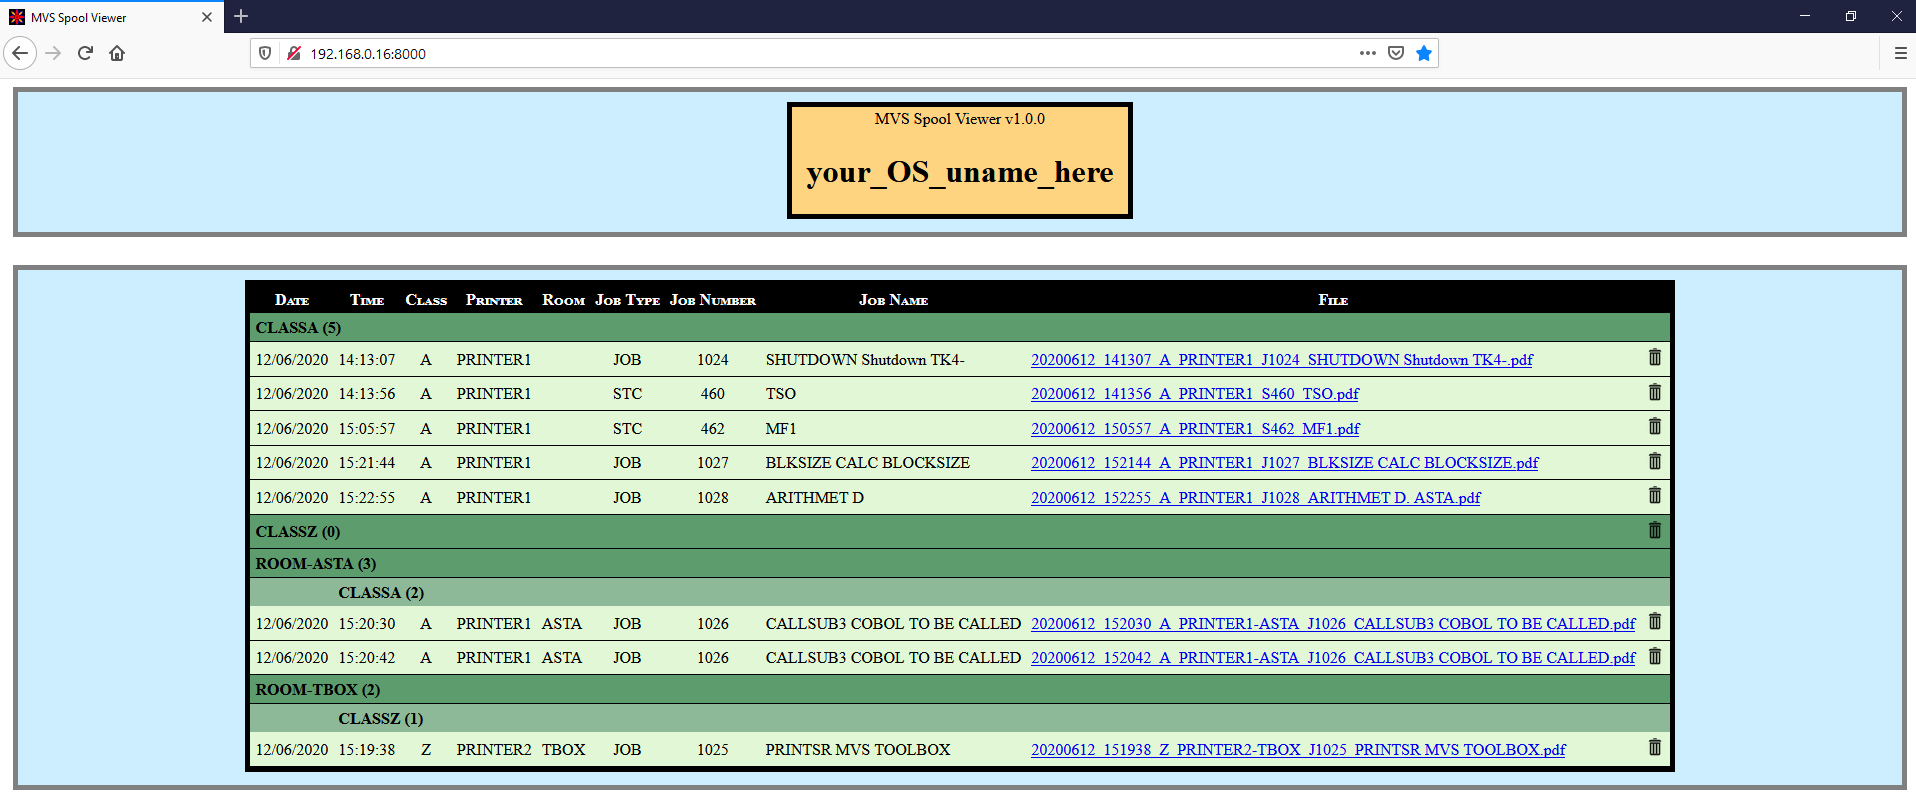
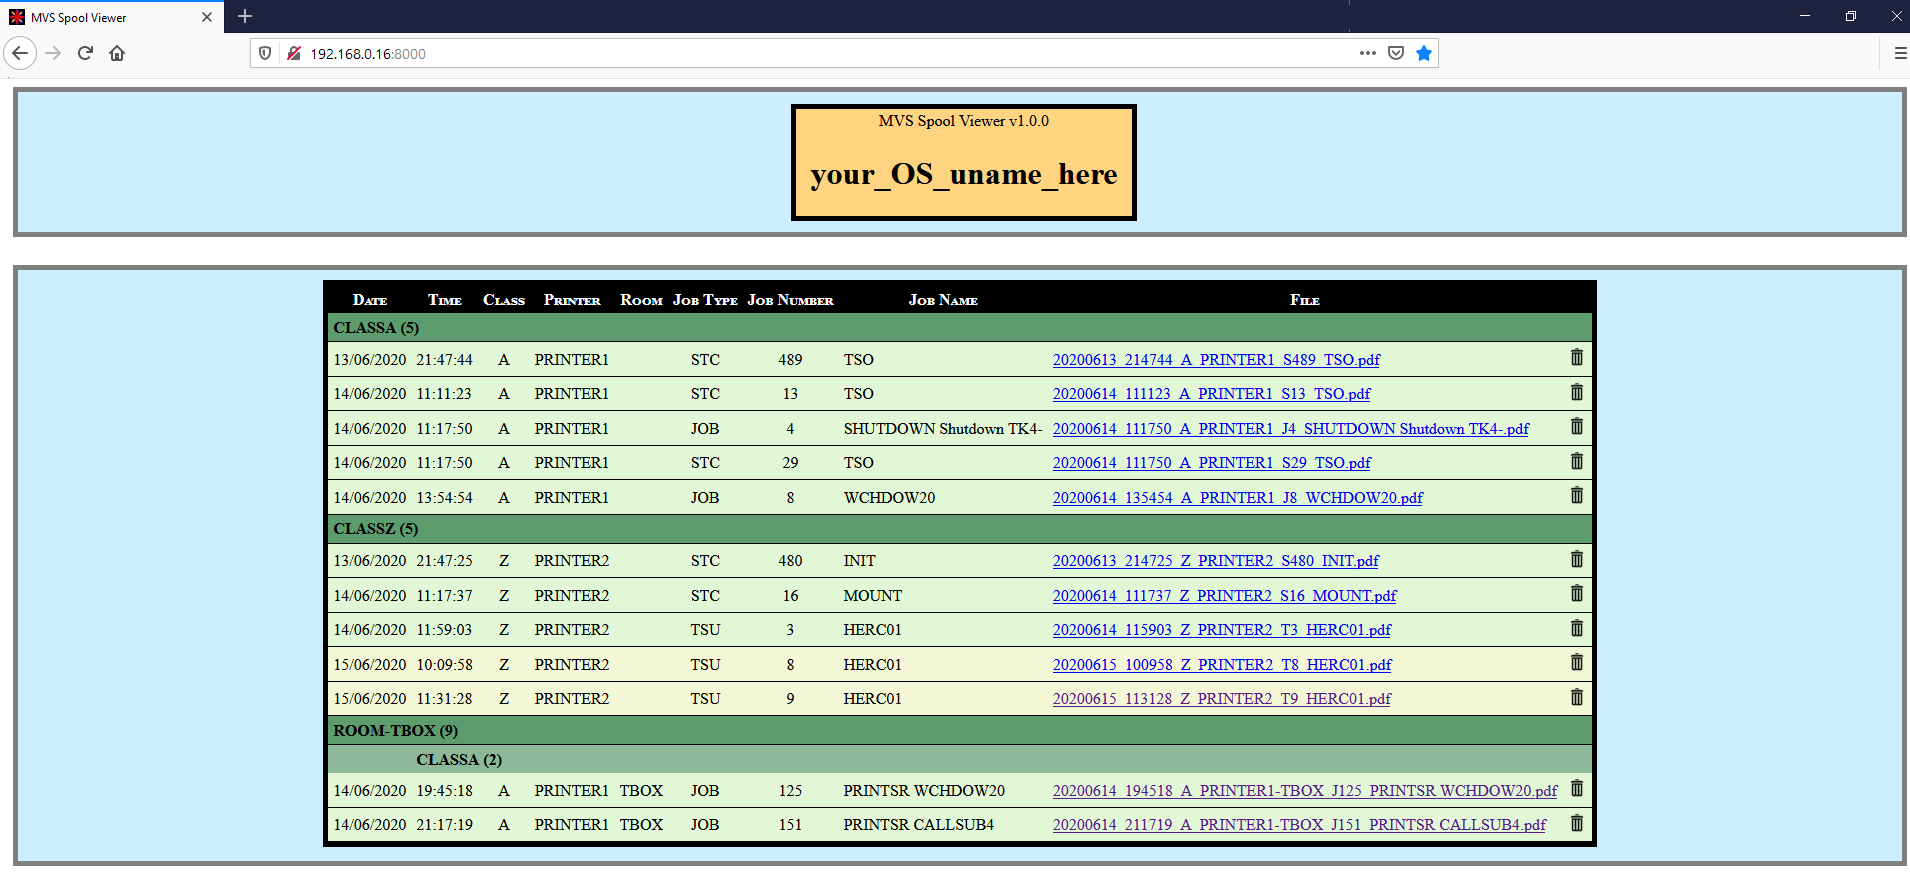
WebUI - Highlight row if jobdate is today

diff --git a/WebUI/style.css b/WebUI/style.css
@@ -1,10 +1,32 @@
+/*
+MIT License
+
+Copyright (c) 2020 David Asta
+
+Permission is hereby granted, free of charge, to any person obtaining a copy
+of this software and associated documentation files (the "Software"), to deal
+in the Software without restriction, including without limitation the rights
+to use, copy, modify, merge, publish, distribute, sublicense, and/or sell
+copies of the Software, and to permit persons to whom the Software is
+furnished to do so, subject to the following conditions:
+
+The above copyright notice and this permission notice shall be included in all
+copies or substantial portions of the Software.
+
+THE SOFTWARE IS PROVIDED "AS IS", WITHOUT WARRANTY OF ANY KIND, EXPRESS OR
+IMPLIED, INCLUDING BUT NOT LIMITED TO THE WARRANTIES OF MERCHANTABILITY,
+FITNESS FOR A PARTICULAR PURPOSE AND NONINFRINGEMENT. IN NO EVENT SHALL THE
+AUTHORS OR COPYRIGHT HOLDERS BE LIABLE FOR ANY CLAIM, DAMAGES OR OTHER
+LIABILITY, WHETHER IN AN ACTION OF CONTRACT, TORT OR OTHERWISE, ARISING FROM,
+OUT OF OR IN CONNECTION WITH THE SOFTWARE OR THE USE OR OTHER DEALINGS IN THE
+SOFTWARE.
+*/
+
 table {
-	border: 1px solid black;
+	border: 5px solid black;
 	border-collapse: collapse;
 	display: inline-block;
-}
-.dir{
-	border: 0px;
+	text-align: left;
 }
 th {
 	background-color: black;
@@ -14,13 +36,22 @@ th {
 	font-variant: small-caps;
 }
 td {
-	border: 1px solid black;
+	border-bottom: 1px solid black;
 	border-collapse: collapse;
 	padding: 5px;
 	background-color: #e1f7d5;
 }
+.today {
+	background-color: #f3f7d5;
+}
 .dir {
+	border-bottom: 1px solid black;
 	background-color: #5d9c6d;
+	font-weight: bold;
+}
+.subdir {
+	border: 0px;
+	background-color: #8db998;
 	font-weight: bold;
 }
 .app{
@@ -34,7 +65,6 @@ td {
 }
 div {
 	background-color: #cceeff;
-	width: 90%;
 	padding: 10px;
 	border: 5px solid gray;
 	margin: 5px;

diff --git a/WebUI/index.php b/WebUI/index.php
@@ -25,7 +25,7 @@ SOFTWARE.
 
 # **** DEFINES ****
 define('APP_NAME', 'MVS Spool Viewer');
-define('APP_VERSION', 'v1.0.0');
+define('APP_VERSION', 'v1.1.0');
 
 # **** GLOBAL VARIABLES ****
 $sysname = exec("uname -n");
@@ -61,10 +61,23 @@ function formatTime($time){
 }
 
 ############################################################
+# Returns true if the Job date is the same as today,
+#   otherwise false
+function isJobDateIsToday($jobinfo){
+	$jobdate = substr($jobinfo, 0, 4) . '-' . substr($jobinfo, 4, 2) . '-' . substr($jobinfo, 6, 2);
+	$todaydate = date("Y-m-d");
+
+	if($jobdate == $todaydate)
+		return true;
+	else
+		return false;
+}
+
+############################################################
 # Returns a description for job types J, S and T
 function getJobType($info){
 	$type = substr($info, 0, 1);
-	
+
 	if($type == 'J') return 'JOB';
 	elseif($type == 'S') return 'STC';
 	elseif($type == 'T') return 'TSU';
@@ -113,6 +126,7 @@ function getJobNumber($info){
 						<th></th>
 					</tr>
 					<?php
+						/* Read all directories */
 						for($i = 0; $i < sizeof($directories); $i++){
 							$dir = $directories[$i];
 							$dirname = explode("/", $dir);
@@ -125,6 +139,7 @@ function getJobNumber($info){
 							$files = array_diff(scandir($dir), array('.', '..'));
 							$filecount = sizeof($files);
 
+							/* If there are no files, allow delete( purge) of the directory */
 							if($filecount == 0){
 								if($types[$i] == 's') echo("<td class='subdir' colspan='8'>" . $dirlast . " (" . $filecount .  ")" . "</td>");
 								else echo("<td class='dir' colspan='9'>" . $dirlast . " (" . $filecount .  ")" . "</td>");
@@ -136,8 +151,10 @@ function getJobNumber($info){
 							}
 							echo("</tr>");
 
+							/* Read all files of the directory */
 							foreach($files as $filename) {
 								if(strpos($filename, 'pdf') > 0){
+									/* Get the Job informatio */
 									$jobinfo = explode("_", $filename);
 									$jobdate = formatDate($jobinfo[0]);
 									$jobtime = formatTime($jobinfo[1]);
@@ -151,21 +168,27 @@ function getJobNumber($info){
 									}
 									$jobtype = getJobType($jobinfo[4]);
 									$jobnumber = getJobNumber($jobinfo[4]);
-									$jobnameext = explode(".", $jobinfo[5]);
-									$jobname = $jobnameext[0];
-									$jobextension = $jobnameext[1];
+									$jobname = substr($jobinfo[5], 0, strlen($jobinfo[5]) - 4);
 
+									/* Print row */
 									echo("<tr>");
-									echo("<td>" . $jobdate . "</td>");
-									echo("<td>" . $jobtime . "</td>");
-									echo("<td align='center'>" . $jobclass . "</td>");
-									echo("<td>" . $jobprinter . "</td>");
-									echo("<td>" . $jobroom . "</td>");
-									echo("<td align='center'>" . $jobtype . "</td>");
-									echo("<td align='center'>" . $jobnumber . "</td>");
-									echo("<td>" . $jobname . "</td>");
-									echo("<td>" . "<a href='" . $dir . "/" . $filename . "' target='_blank'>" . $filename . "</td>");
-									echo("<td><a href='purge.php?ftype=file&fname=" . $dir . "/" . $filename . "'><img src='purge.png' width = '20' height = '20'/></a></td>");
+
+									/* If jobdate is today, highlight the row with another colour */
+									if(isJobDateIsToday($jobinfo[0]))
+										$class = "today";
+									else
+										$class = "";
+
+									echo("<td class='" . $class . "'>" . $jobdate . "</td>");
+									echo("<td class='" . $class . "'>" . $jobtime . "</td>");
+									echo("<td class='" . $class . "' align='center'>" . $jobclass . "</td>");
+									echo("<td class='" . $class . "'>" . $jobprinter . "</td>");
+									echo("<td class='" . $class . "'>" . $jobroom . "</td>");
+									echo("<td class='" . $class . "' align='center'>" . $jobtype . "</td>");
+									echo("<td class='" . $class . "' align='center'>" . $jobnumber . "</td>");
+									echo("<td class='" . $class . "'>" . $jobname . "</td>");
+									echo("<td class='" . $class . "'>" . "<a href='" . $dir . "/" . $filename . "' target='_blank'>" . $filename . "</td>");
+									echo("<td class='" . $class . "'><a href='purge.php?ftype=file&fname=" . $dir . "/" . $filename . "'><img src='purge.png' width = '20' height = '20'/></a></td>");
 									echo("</tr>");
 								}
 							}
